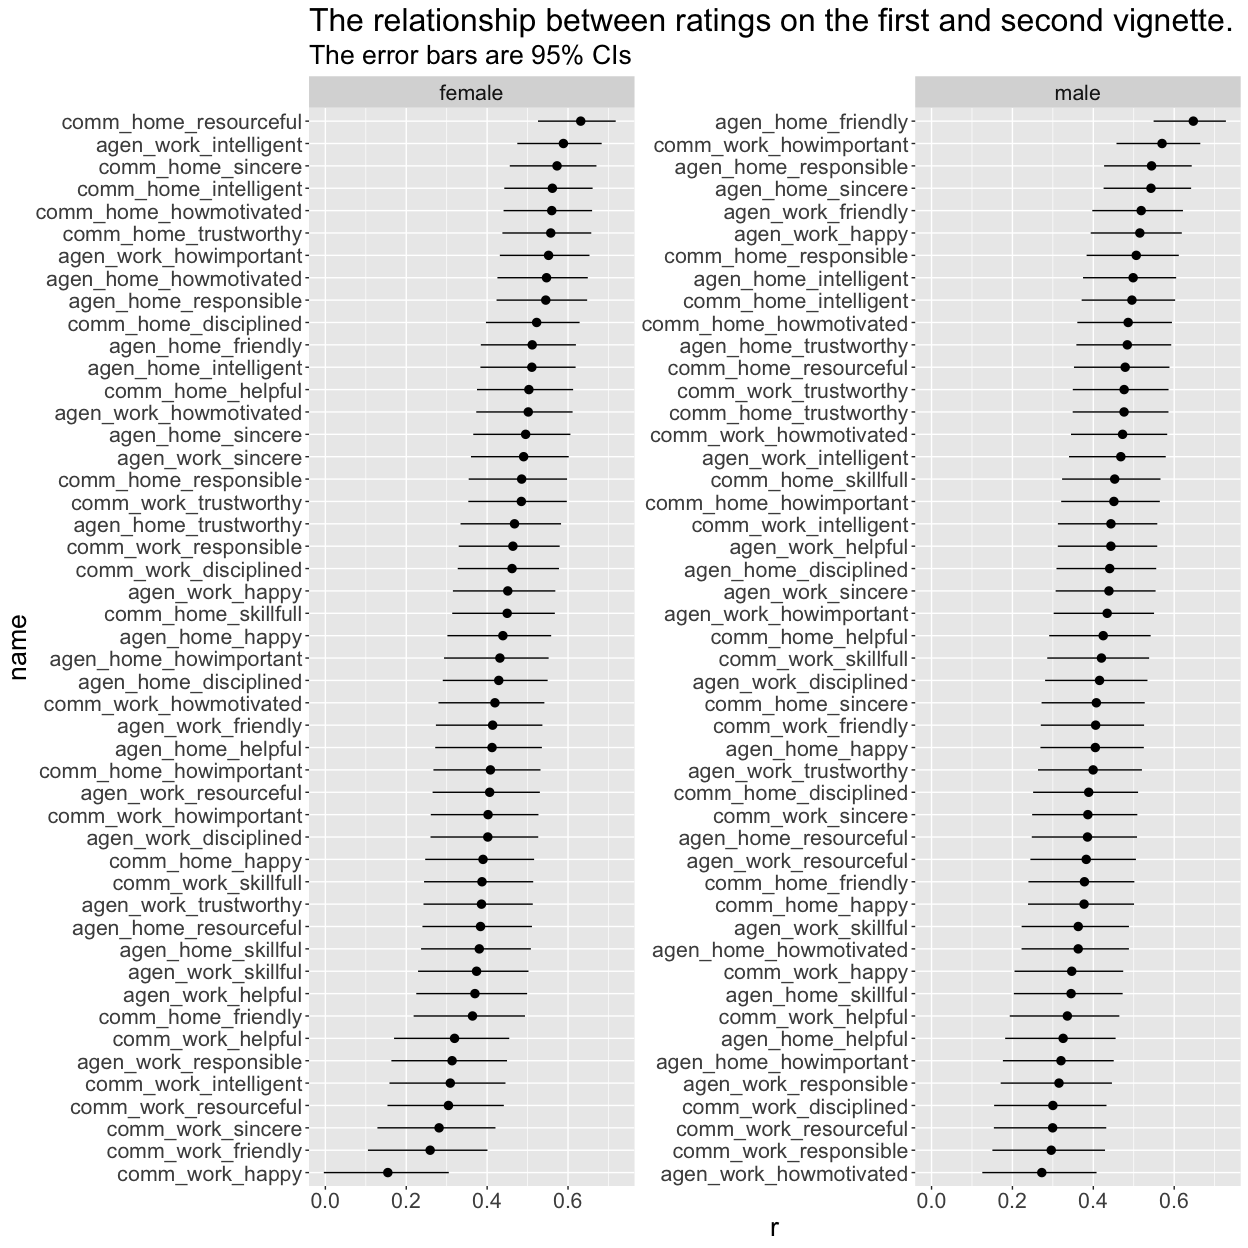
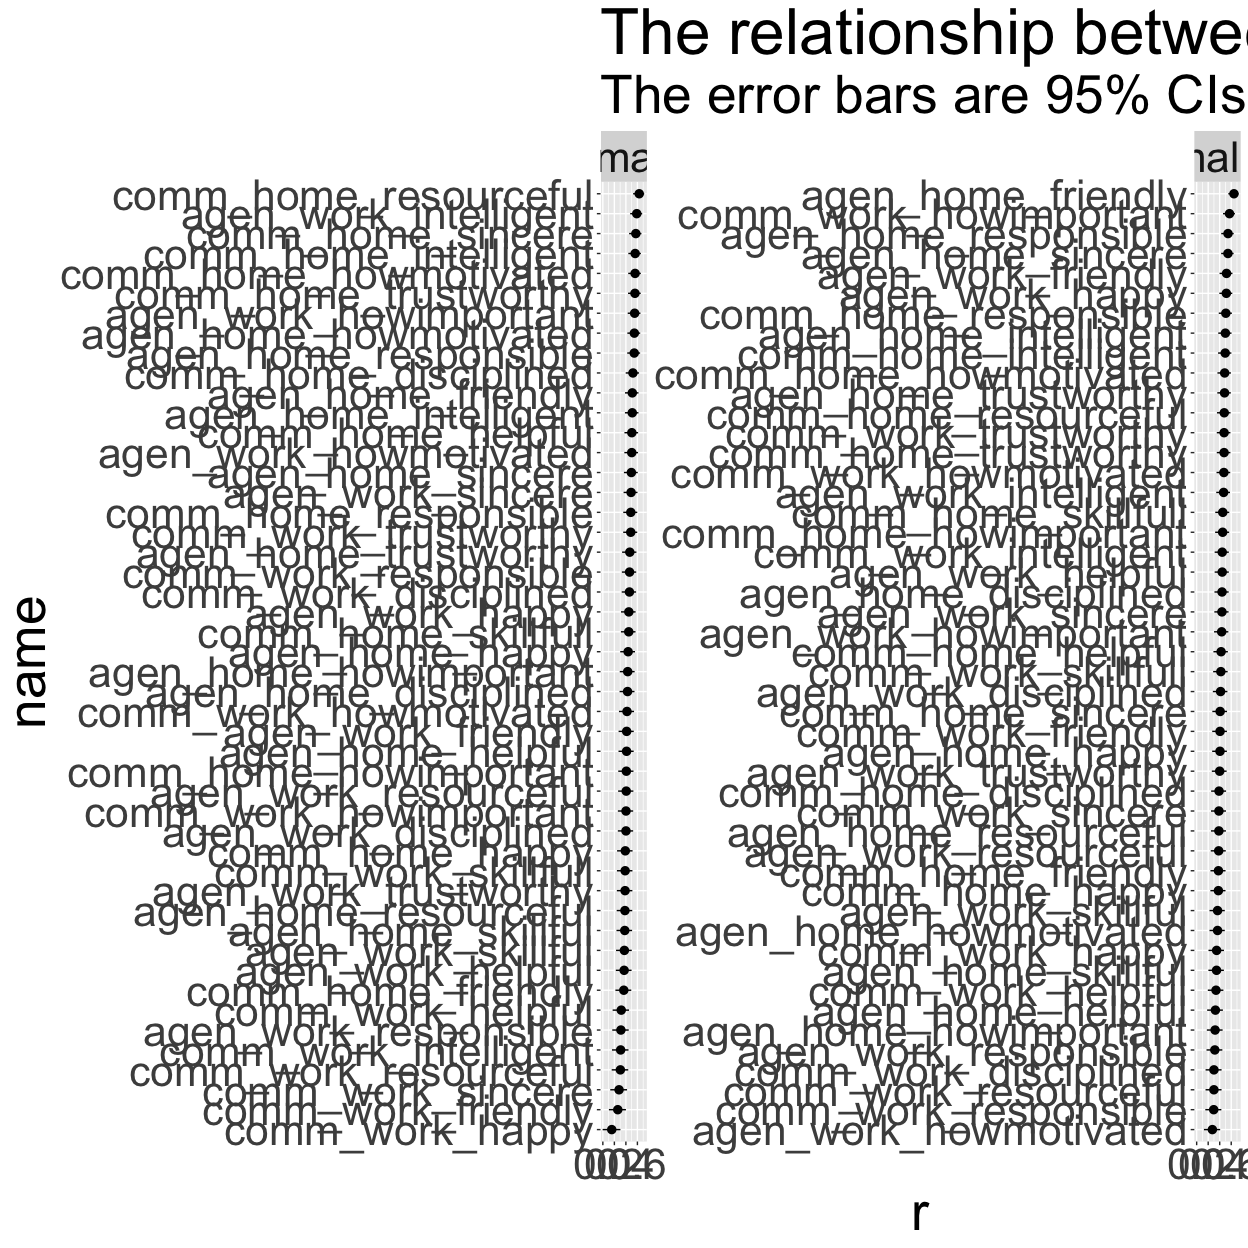
fixing plot text - increase size

diff --git a/gpof-items.md b/gpof-items.md
@@ -16,7 +16,7 @@ This plot shows the correlations at the item level. E.g., what is the
 correlation between `Agen_Work_Skillful_1` and `Agen_Work_Skillful_2`.
 
 ``` r
-p1 + theme(text = element_text(size=20))
+p1 + theme(text = element_text(size=40))
 ```
 
 ![](gpof-items_files/figure-gfm/unnamed-chunk-2-1.png)<!-- -->
